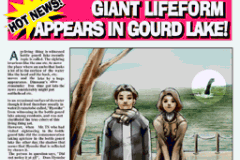
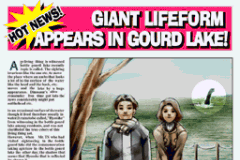
Evidence screens: "Main Gate" and the newspaper's headline no longer cut off
Global Studios map (Floor Plans): the English label sat 3 px above the GBA
frame. Writing the English picture adds where the Japanese one has none is
moved into the picture when the GBA frame cuts it.
Gourdy article: the DS page is fitted from the top (HOT NEWS! and the
headline bar were cut; the bottom only loses the tiny photo caption).

Claude-Session: https://claude.ai/code/session_01SUsKQpDV9RG9kScWUHPdGG

diff --git a/tools/en/port_backgrounds.py b/tools/en/port_backgrounds.py
@@ -89,7 +89,7 @@ DOCUMENTS = [
 ]
 # redrawn for the DS English release as a whole: fitted to the GBA screen
 WHOLE = [
-    ('gGfx_BG089_Case4Newspaper', 'newspaper page, English layout', 'centre'),
+    ('gGfx_BG089_Case4Newspaper', 'newspaper page, English layout', 'top'),
     ('gGfx_BG063_Case3SteelSamurai', 'title card -> STEEL SAMURAI (logo at the bottom edge)', 'bottom'),
 ]
 
@@ -209,16 +209,39 @@ def port_signs(label, jp_base, en_base, report):
             e = en[y0:y1, x0:x1]
         else:
             e = cv2.resize(en[y0:y1, x0:x1], (w, h), interpolation=cv2.INTER_AREA if s < 1 else cv2.INTER_LINEAR)
-        # clip to the picture
+        j = jp[y0:y1, x0:x1] if s == 1 else \
+            cv2.resize(jp[y0:y1, x0:x1], (w, h), interpolation=cv2.INTER_AREA if s < 1 else cv2.INTER_LINEAR)
+        # Writing the English picture adds where the Japanese one has none (a
+        # label with its leader line beside a building, not over the Japanese
+        # one) is moved into the picture when the GBA frame cuts it: the GBA
+        # pictures show less above and below than the DS ones, and the map of
+        # Global Studios cut the top off "Main Gate". Writing that replaces
+        # Japanese writing stays where it is (it has to cover it).
         H, W = out.shape
-        yy0, xx0 = max(0, gy), max(0, gx)
-        yy1, xx1 = min(H, gy + h), min(W, gx + w)
-        m = m[yy0 - gy:yy1 - gy, xx0 - gx:xx1 - gx]
-        e = e[yy0 - gy:yy1 - gy, xx0 - gx:xx1 - gx]
-        region = out[yy0:yy1, xx0:xx1]
-        region[m] = nearest(e[m], pal, usable)
-        report.append('  patch DS (%d,%d)-(%d,%d) -> GBA (%d,%d) scale %.3f match %.0f, %d px'
-                      % (x0, y0, x1, y1, gx, gy, s, score, m.sum()))
+        lab, n = ndimage.label(m, structure=np.ones((3, 3)))
+        painted, moved = 0, []
+        for k in range(1, n + 1):
+            c = lab == k
+            ys, xs = np.nonzero(c)
+            dy = max(0, -(gy + ys.min())) - max(0, gy + ys.max() + 1 - H)
+            dx = max(0, -(gx + xs.min())) - max(0, gx + xs.max() + 1 - W)
+            if dy or dx:
+                jc = j[c].reshape(-1, 3).astype(int)
+                vals, counts = np.unique(jc, axis=0, return_counts=True)
+                plain = (np.abs(jc - vals[np.argmax(counts)]).sum(1) > DIFF).mean() < 0.02
+                if plain:
+                    dy += 1 if dy > 0 else -1 if dy < 0 else 0      # a pixel clear of the edge
+                    dx += 1 if dx > 0 else -1 if dx < 0 else 0
+                    moved.append('%+d,%+d' % (dx, dy))
+                else:
+                    dy = dx = 0
+            Y, X = gy + ys + dy, gx + xs + dx
+            ok = (Y >= 0) & (Y < H) & (X >= 0) & (X < W)
+            out[Y[ok], X[ok]] = nearest(e[ys[ok], xs[ok]], pal, usable)
+            painted += int(ok.sum())
+        report.append('  patch DS (%d,%d)-(%d,%d) -> GBA (%d,%d) scale %.3f match %.0f, %d px%s'
+                      % (x0, y0, x1, y1, gx, gy, s, score, painted,
+                         (', moved into the picture ' + ' '.join(moved)) if moved else ''))
     save_gba(path, out, rawpal)
 
 # ------------------------------------------------------------------ documents
@@ -334,7 +357,11 @@ def locate_arrow(idx, pal, black):
 # ------------------------------------------------------------------ newspaper
 def port_whole(label, en_base, report, anchor='centre'):
     """the DS English picture fitted to the GBA screen (uniform scale; the
-    overhang is cut evenly, or from the top for anchor='bottom')"""
+    overhang is cut evenly, from the top for anchor='bottom', or from the
+    bottom for anchor='top'). The newspaper is cut from the bottom: cut evenly,
+    the top of "HOT NEWS!" and of the headline bar went (the bottom has the
+    photo caption and the ends of the columns, in type too small to read on
+    the GBA screen either way)"""
     path, idx, pal, rawpal = load_gba(label)
     en = ds_rgb(en_base)
     H, W = idx.shape
@@ -344,6 +371,8 @@ def port_whole(label, en_base, report, anchor='centre'):
     x0, y0 = (w - W) // 2, (h - H) // 2
     if anchor == 'bottom':
         y0 = h - H
+    elif anchor == 'top':
+        y0 = 0
     r = r[y0:y0 + H, x0:x0 + W]
     usable = sorted(set(np.unique(idx)))
     out = nearest(r.reshape(-1, 3), pal, usable).reshape(H, W)
